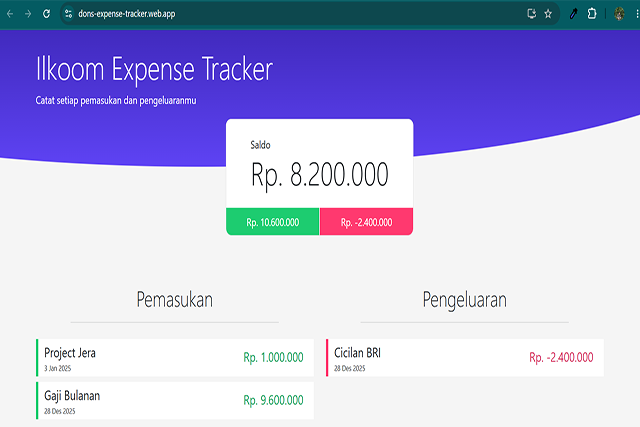
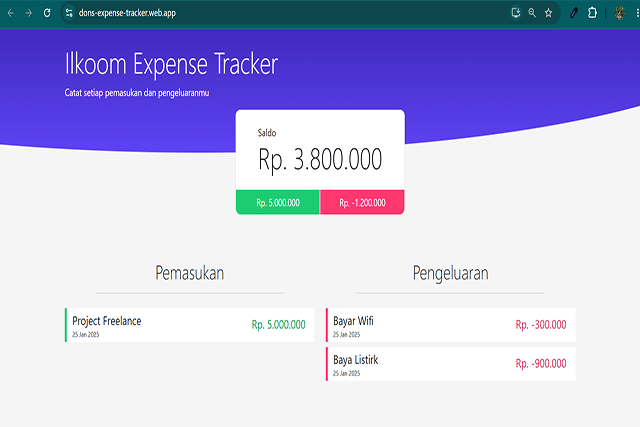
Fixed Project Details link pada card tombol live preview project 4 ketuker dengan link project 5

diff --git a/src/Details.js b/src/Details.js
@@ -152,20 +152,20 @@ export const projectDetails = [
     githubLink: "#",
   },
   {
-    title: "Movie Database",
-    image: projectImage4,
-    description: `Mini project membuat sistem untuk menampilkan daftar film terpopuler dari setiap tahun dengan mengambil data API dari <a class="text-blue-500 underline" href="https://www.themoviedb.org">TMDB (themoviedb.org)</a>. Film dapat di filter berdasarkan tahun release dan genre.`,
-    techstack: "HTML/CSS, JavaScript, Firebase",
-    previewLink: "https://dons-movie-database.web.app/",
-    githubLink: "https://github.com/aldinmbrk/dons-movie-database",
-  },
-  {
     title: "Expense Tracker",
-    image: projectImage5,
+    image: projectImage4,
     description: `Mini project membuat sistem pencatatan pengeluaran personal, menyimpan pemasukan dan pengeluaran serta menampilkan total selisih antara keduanya.`,
     techstack: "HTML/CSS, JavaScript, Firebase",
     previewLink: "https://dons-expense-tracker.web.app/",
     githubLink: "https://github.com/aldinmbrk/dons-expense-tracker",
+  },
+  {
+    title: "Movie Database",
+    image: projectImage5,
+    description: `Mini project membuat sistem untuk menampilkan daftar film terpopuler dari setiap tahun dengan mengambil data API dari <a class="text-blue-500 underline" href="https://www.themoviedb.org">TMDB (themoviedb.org)</a>. Film dapat di filter berdasarkan tahun release dan genre.`,
+    techstack: "HTML/CSS, JavaScript, Firebase",
+    previewLink: "https://dons-movie-database.web.app/",
+    githubLink: "https://github.com/aldinmbrk/dons-movie-database",
   },
 ];
 

diff --git a/src/Components/Project.js b/src/Components/Project.js
@@ -60,7 +60,7 @@ function Project({ title, image, description, techstack, previewLink, githubLink
             </svg>
 
             {githubLink === "#" ? (
-              <div className="flex items-center text-sm text-gray-500 dark:text-gray-400 bg-gray-100 dark:bg-zinc-800 rounded-lg px-3 py-1.5 cursor-not-allowed select-none min-w-fit">
+              <div className="ml-1 flex items-center text-sm text-gray-500 dark:text-gray-400 bg-gray-100 dark:bg-zinc-800 rounded-lg px-3 py-1.5 cursor-not-allowed select-none min-w-fit">
                 <svg 
                   className="w-4 h-4 mr-1.5 fill-current" 
                   viewBox="0 0 24 24" 